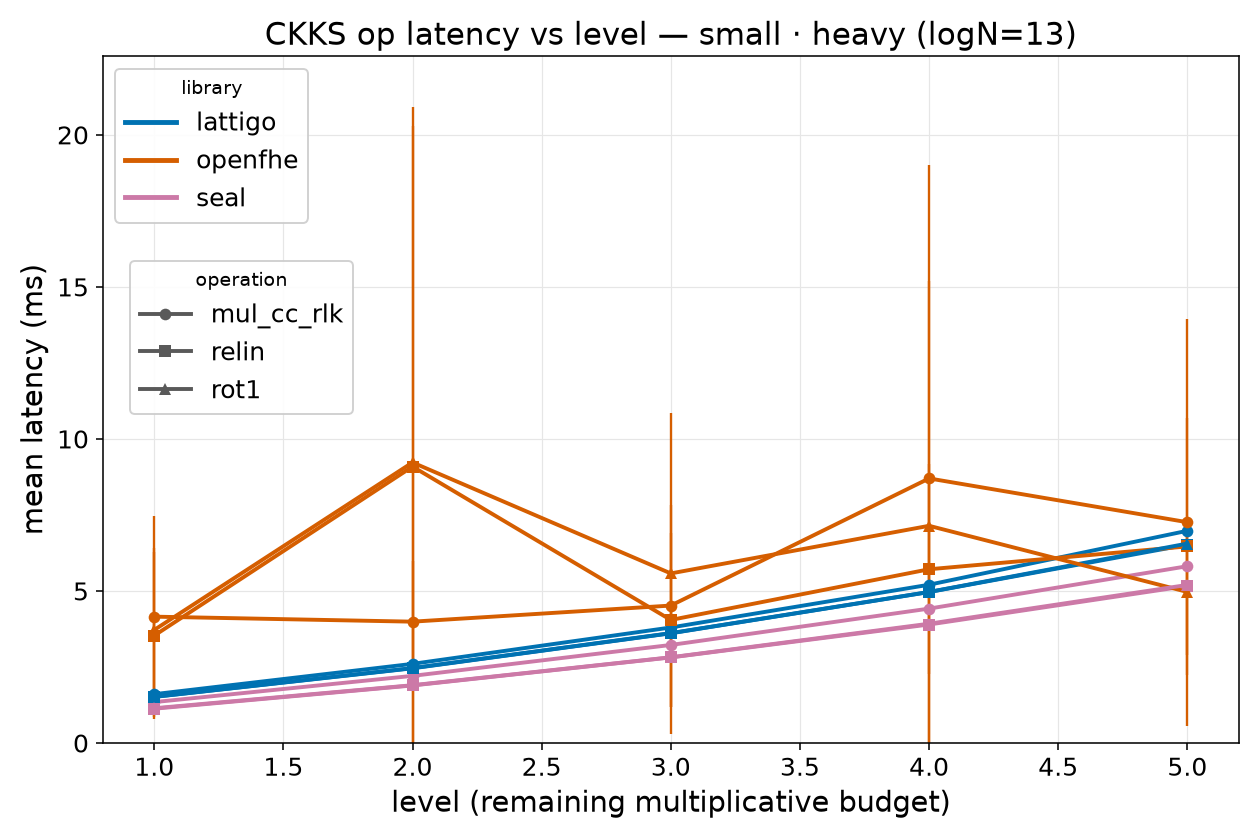
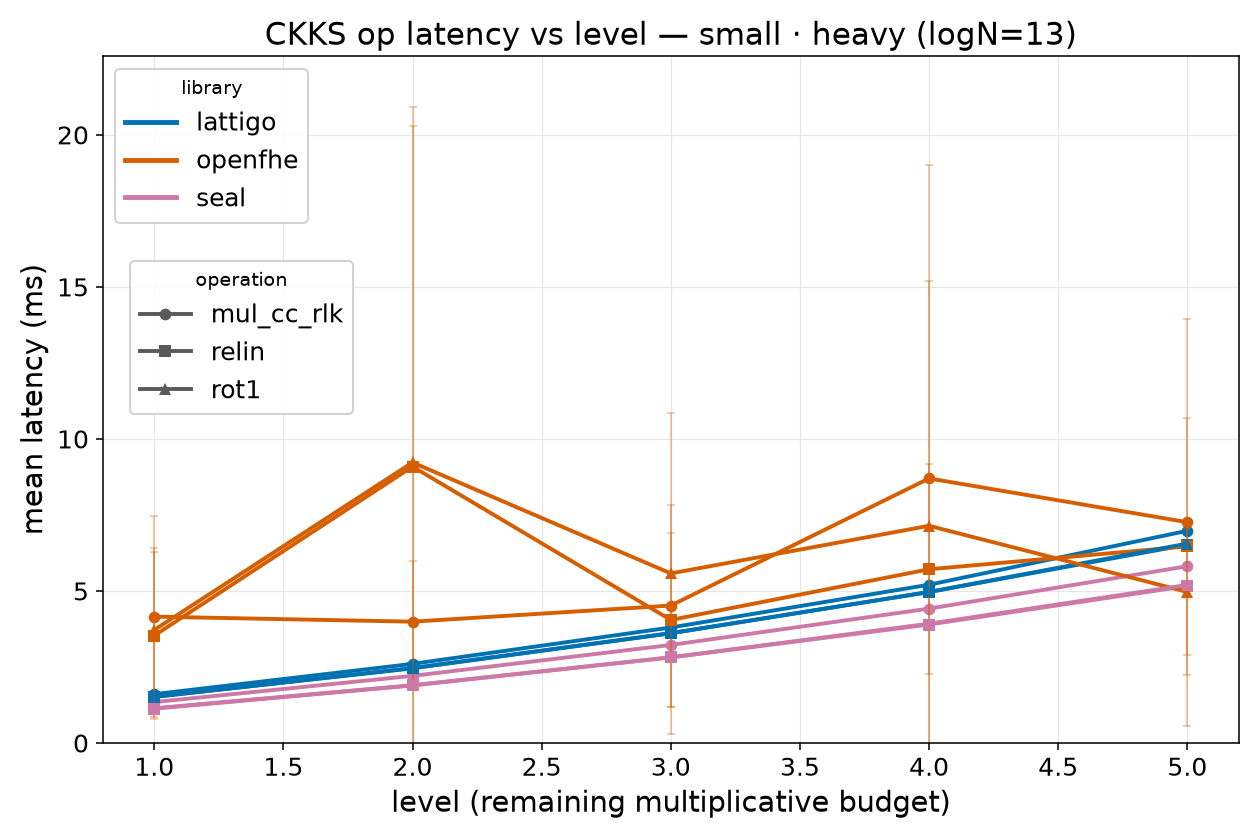
plots: 레벨별 차트 에러바 스타일 복원 (elinewidth 0.8 / capsize 2 / alpha 0.4)
에러바만 이전 설정으로 되돌린다. capthick도 0.8로 맞춤.

★ errorbar()에 alpha를 주면 선·마커까지 반투명해지므로 분리했다:
  - 선·마커: ax.plot() 으로 불투명하게
  - 에러바:  ax.errorbar(..., fmt="none", alpha=0.4) 로 따로 얹음
  픽셀 검증: 선·마커는 순색 (213,94,0), 에러바는 40% 블렌드 (230,191,153) 로
  각각 렌더되는 것을 확인했다.

유지(무변경): 전부 실선 / 색=라이브러리 / 마커=연산(티어별 o,s,^ 재사용) /
  markeredgewidth=0, markeredgecolor=선색 / 범례 좌상단 세로 배치(leg1 실측 높이) /
  요약 막대 차트.

Claude-Session: https://claude.ai/code/session_01QAUSb1GNgxJ2ga7wyt3GKn

diff --git a/aggregate.py b/aggregate.py
@@ -287,17 +287,23 @@ def plot_level_scaling(df):
                     # mean_us/std_us를 ms(÷1000)로 그린다. 원본 데이터는 μs 유지.
                     mean_ms = d["mean_us"].values / 1000.0
                     std_ms = d["std_us"].values / 1000.0
-                    # 에러바 = 표준편차 1배, 캡 스타일. 색은 해당 라이브러리 색.
-                    ax.errorbar(
+                    # 선·마커와 에러바를 나눠 그린다.
+                    # errorbar()에 alpha를 주면 선·마커까지 반투명해지므로,
+                    # 선·마커는 plot()으로 불투명하게 그리고 에러바만 fmt="none"으로 얹는다.
+                    ax.plot(
                         d["level"], mean_ms,
-                        yerr=std_ms,
                         color=LIB_COLOR[lib],
                         linestyle="-",
                         marker=op_marker[op],
                         markersize=6, linewidth=2.0,
                         markeredgewidth=0, markeredgecolor=LIB_COLOR[lib],
-                        elinewidth=1.2, capsize=3, capthick=1.2,
+                    )
+                    # 에러바 = 표준편차 1배. 색은 해당 라이브러리 색, 반투명으로 얹는다.
+                    ax.errorbar(
+                        d["level"], mean_ms, yerr=std_ms, fmt="none",
                         ecolor=LIB_COLOR[lib],
+                        elinewidth=0.8, capsize=2, capthick=0.8,
+                        alpha=0.4,
                     )
                     ymax = max(ymax, float((mean_ms + std_ms).max()))
             # 선형축, 층 데이터에 타이트하게 0부터 시작 → 배수 차이를 정직하게 표시.
